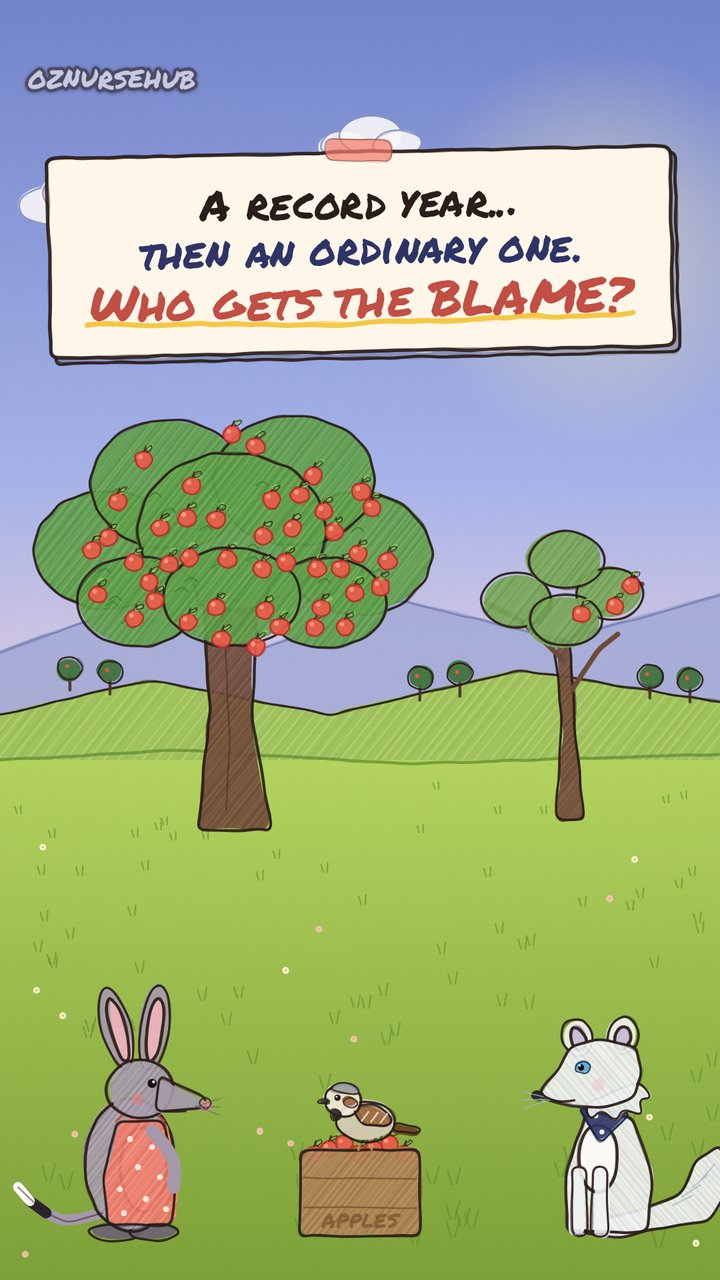
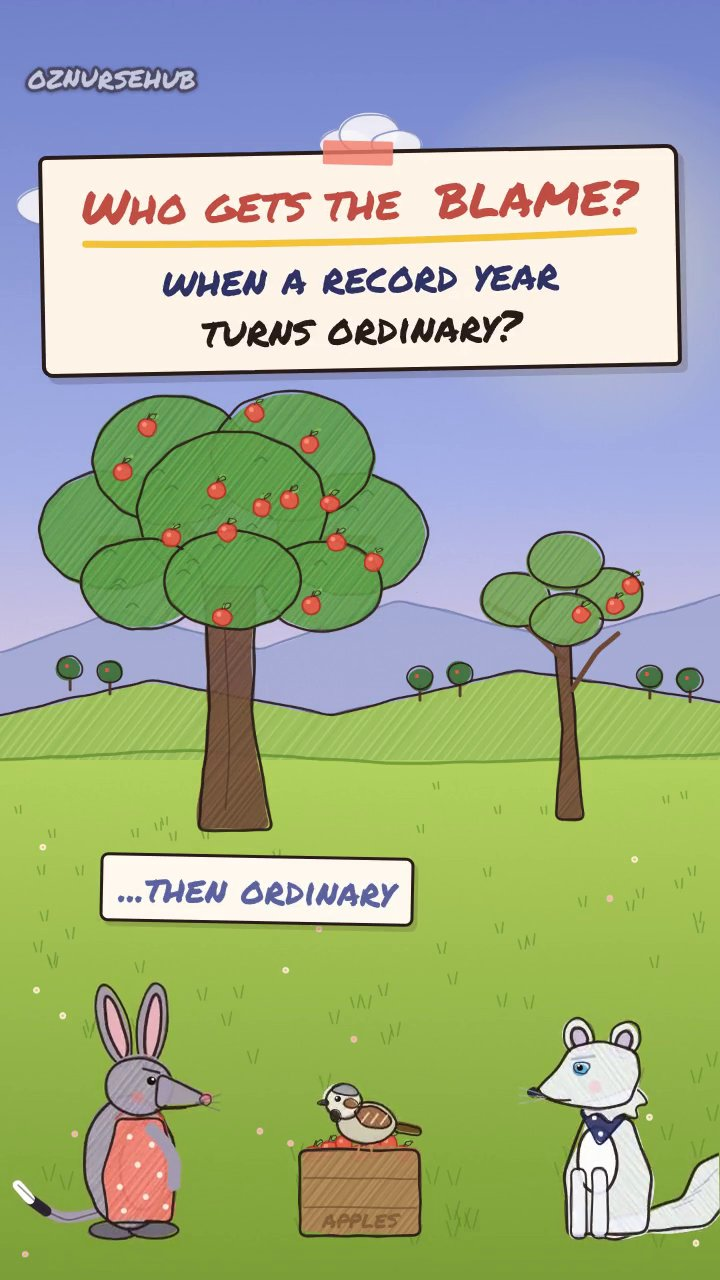
Add story pages for fables 09–11: Weaver, Fox tonic and Orchard
New pages for The Weaver's Four Screens, The Fox's Half-Risk Tonic and The Orchard's Best Year, with library cards, next-story chain, sitemap entries and a cache bump to oznurse-v100-fable-pages. The Orchard poster is replaced with the remade thumbnail.

diff --git a/fable-orchards-best-year.html b/fable-orchards-best-year.html
@@ -1,0 +1,95 @@
+<!doctype html>
+<html lang="en-AU">
+<head>
+<meta charset="utf-8">
+<script src="theme.js"></script>
+<meta name="viewport" content="width=device-width,initial-scale=1">
+<title>The Orchard&rsquo;s Best Year | OzNurseHub</title>
+<meta name="description" content="Watch The Orchard&rsquo;s Best Year, a short fable about regression to the mean: after one extreme result, things usually drift back to ordinary.">
+<link rel="canonical" href="https://oznursehub.com/fable-orchards-best-year.html">
+<!-- Open Graph -->
+<meta property="og:type" content="article">
+<meta property="og:site_name" content="OzNurseHub">
+<meta property="og:locale" content="en_AU">
+<meta property="og:url" content="https://oznursehub.com/fable-orchards-best-year.html">
+<meta property="og:title" content="The Orchard&rsquo;s Best Year | OzNurseHub">
+<meta property="og:description" content="Watch The Orchard&rsquo;s Best Year, a short fable about regression to the mean: after one extreme result, things usually drift back to ordinary.">
+<meta property="og:image" content="https://oznursehub.com/og-image.jpg">
+<meta property="og:image:type" content="image/jpeg">
+<meta property="og:image:width" content="1200">
+<meta property="og:image:height" content="630">
+<meta property="og:image:alt" content="OzNurseHub logo: a heartbeat line running through the letters, beside the OzNurseHub name">
+<!-- Twitter / X card -->
+<meta name="twitter:card" content="summary_large_image">
+<meta name="twitter:title" content="The Orchard&rsquo;s Best Year | OzNurseHub">
+<meta name="twitter:description" content="Watch The Orchard&rsquo;s Best Year, a short fable about regression to the mean: after one extreme result, things usually drift back to ordinary.">
+<meta name="twitter:image" content="https://oznursehub.com/og-image.jpg">
+<meta name="twitter:image:alt" content="OzNurseHub logo: a heartbeat line running through the letters, beside the OzNurseHub name">
+<link rel="icon" href="favicon.ico" sizes="any"><link rel="icon" type="image/png" sizes="32x32" href="favicon-32.png">
+<link rel="manifest" href="manifest.json">
+<link rel="apple-touch-icon" sizes="180x180" href="apple-touch-icon.png">
+<meta name="theme-color" content="#155e53">
+<link rel="preconnect" href="https://fonts.googleapis.com">
+<link rel="preconnect" href="https://fonts.gstatic.com" crossorigin>
+<link rel="stylesheet" href="https://fonts.googleapis.com/css2?family=DM+Sans:wght@400;500;600;700&amp;family=Fraunces:wght@400;500;600&amp;display=swap">
+<link rel="stylesheet" href="renovation.css">
+<link rel="stylesheet" href="scroll-effects.css">
+<link rel="stylesheet" href="site-theme.css">
+<link rel="stylesheet" href="dark-theme.css">
+<link rel="stylesheet" href="site-navigation.css">
+<link rel="stylesheet" href="fable-story.css">
+<script src="site-navigation.js" defer></script>
+<link rel="stylesheet" href="resource-sidebar.css">
+<script src="resource-sidebar.js?v=3" defer></script>
+</head>
+<body class="renovated fable-page">
+<a class="elegant-skip" href="#content">Skip to content</a>
+<header class="elegant-header"><div class="elegant-nav"><a class="elegant-brand" href="index.html"><img class="elegant-brand-mark" src="logo-mark.png" width="34" height="34" alt="">OzNurseHub<small>Learn with purpose.</small></a><button class="elegant-toggle" type="button" aria-expanded="false" aria-controls="elegant-links">Menu</button><nav class="elegant-links" id="elegant-links" aria-label="Main navigation"><a href="index.html">Home</a><a href="resources.html">Resources</a><a href="tools.html">Tools</a><a href="medications.html">Medications</a><a href="downloads.html">Downloads</a><a class="nav-feature" href="learning-lab.html">Learning lab ↗</a></nav></div></header>
+<main id="content" class="renovation-main fable-main">
+<a class="fable-back" href="fables.html">← All fables</a>
+<section id="orchard" aria-labelledby="orchard-title">
+<section class="fable-intro">
+<p class="overline">Fable Story</p>
+<h1 id="orchard-title">The Orchard&rsquo;s Best Year</h1>
+<p>A small story about a record harvest, a golden ribbon, and why one extreme year is usually followed by an ordinary one.</p>
+<div class="fable-meta"><span>Watch · 1 minute</span><span>Read · 2 minutes</span><span>Learning &amp; reflection</span></div>
+</section>
+<div class="fable-layout">
+<figure class="fable-film" aria-labelledby="orchard-film-caption">
+<video controls playsinline preload="none" poster="media/orchards-best-year.jpg" aria-label="The Orchard&rsquo;s Best Year — fable video" aria-describedby="orchard-film-caption">
+<source src="media/orchards-best-year.mp4" type="video/mp4">
+Your browser cannot play this video. <a href="media/orchards-best-year.mp4">Open the video</a> or read the complete story below.
+</video>
+<figcaption id="orchard-film-caption">Watch the fable, with on-screen captions. Read the full story on this page.</figcaption>
+</figure>
+<article class="fable-text" aria-labelledby="orchard-story-title">
+<p class="overline">The full story</p>
+<h2 id="orchard-story-title">Who gets the blame when a record year turns ordinary?</h2>
+<p>In the orchard beyond the crossroads, old trees grew apples every year. Most years were ordinary. But one summer, a single tree called Old Rowan grew more apples than anyone had ever seen. Its branches bent almost to the ground.</p>
+<p>Senna the bilby was delighted. &ldquo;Old Rowan is the best tree in the land!&rdquo; she declared, and she tied a golden ribbon around its trunk.</p>
+<p>The next year, Old Rowan grew a perfectly normal number of apples. Not bad, just ordinary.</p>
+<p>The mocking fox sneered. &ldquo;See? The golden ribbon made it lazy. Praise always spoils things.&rdquo;</p>
+<p>Meanwhile, at the other end of the orchard, a scrawny tree had grown only three apples the year before. Senna had shouted at it and pruned it hard. This year, it grew an ordinary crop too.</p>
+<p>&ldquo;Aha!&rdquo; said the fox. &ldquo;Shouting works and praise doesn&rsquo;t!&rdquo;</p>
+<p>Bayes the sparrow fluttered between the two trees. &ldquo;Did the ribbon or the shouting really change anything?&rdquo; she asked. &ldquo;Or was last year just unusually lucky for one tree and unusually unlucky for the other?&rdquo;</p>
+<p>Senna thought back. Last year, Old Rowan had caught the morning sun after a branch fell from a neighbour, and the rain had been just right. The scrawny tree had been nibbled by caterpillars. Those were rare strokes of luck, good and bad.</p>
+<p>&ldquo;Extreme years are often followed by ordinary ones,&rdquo; said Bayes. &ldquo;Not because of ribbons or shouting, but because luck doesn&rsquo;t usually strike twice in a row.&rdquo;</p>
+<p>Senna untied the golden ribbon and smiled. She would judge her trees by many seasons, not by one.</p>
+<p>After a very good or very bad result, expect things to drift back towards normal, and don&rsquo;t give the credit or blame to whatever you did in between.</p>
+<p>On the ward too: one odd reading? Recheck it, watch the trend, and escalate if you&rsquo;re worried.</p>
+<p>Regression to the mean describes how an unusually high or low measurement is often followed by one closer to the average, simply because chance played a part in the first result. It doesn&rsquo;t mean things are pulled back by a force; it means extreme results usually contain some luck that doesn&rsquo;t repeat. This matters in everyday life and in healthcare. That is why good decisions rely on repeated measurements, and why research uses comparison groups to tell real effects from natural drift.</p>
+
+<aside class="fable-reflection" aria-labelledby="orchard-reflection-title">
+<h3 id="orchard-reflection-title">A moment to reflect</h3>
+<p>After one unusually good or bad result, what else would you look at before giving credit or blame?</p>
+<p>When one reading looks odd, what helps you tell a real change from a one-off — and when would you escalate?</p>
+</aside>
+<p>Fictional, educational content. OzNurseHub is independent and is not endorsed by any health service, university or professional body.</p>
+</article>
+</div>
+</section>
+<nav class="fable-picker" aria-label="More fables"><a href="fables.html">All fables</a><a href="fable-merchants-crossroads.html">Next story: The Merchants of the Crossroads →</a></nav>
+</main>
+<footer class="elegant-footer"><span>OzNurseHub / Learn with purpose.</span><div><a href="resources.html">Resources</a><a href="about.html">About</a><a href="feedback.html">Feedback</a><a href="https://www.tiktok.com/@oznursehub" rel="me noopener" target="_blank">TikTok</a></div></footer>
+<script src="renovation.js"></script><script src="scroll-effects.js"></script><script src="app-shell.js"></script>
+</body></html>

diff --git a/fable-fox-half-risk-tonic.html b/fable-fox-half-risk-tonic.html
@@ -1,0 +1,94 @@
+<!doctype html>
+<html lang="en-AU">
+<head>
+<meta charset="utf-8">
+<script src="theme.js"></script>
+<meta name="viewport" content="width=device-width,initial-scale=1">
+<title>The Fox&rsquo;s Half-Risk Tonic | OzNurseHub</title>
+<meta name="description" content="Watch The Fox&rsquo;s Half-Risk Tonic, a short fable about absolute vs relative risk: when someone says a tonic cuts the risk in half, always ask — half of what?">
+<link rel="canonical" href="https://oznursehub.com/fable-fox-half-risk-tonic.html">
+<!-- Open Graph -->
+<meta property="og:type" content="article">
+<meta property="og:site_name" content="OzNurseHub">
+<meta property="og:locale" content="en_AU">
+<meta property="og:url" content="https://oznursehub.com/fable-fox-half-risk-tonic.html">
+<meta property="og:title" content="The Fox&rsquo;s Half-Risk Tonic | OzNurseHub">
+<meta property="og:description" content="Watch The Fox&rsquo;s Half-Risk Tonic, a short fable about absolute vs relative risk: when someone says a tonic cuts the risk in half, always ask — half of what?">
+<meta property="og:image" content="https://oznursehub.com/og-image.jpg">
+<meta property="og:image:type" content="image/jpeg">
+<meta property="og:image:width" content="1200">
+<meta property="og:image:height" content="630">
+<meta property="og:image:alt" content="OzNurseHub logo: a heartbeat line running through the letters, beside the OzNurseHub name">
+<!-- Twitter / X card -->
+<meta name="twitter:card" content="summary_large_image">
+<meta name="twitter:title" content="The Fox&rsquo;s Half-Risk Tonic | OzNurseHub">
+<meta name="twitter:description" content="Watch The Fox&rsquo;s Half-Risk Tonic, a short fable about absolute vs relative risk: when someone says a tonic cuts the risk in half, always ask — half of what?">
+<meta name="twitter:image" content="https://oznursehub.com/og-image.jpg">
+<meta name="twitter:image:alt" content="OzNurseHub logo: a heartbeat line running through the letters, beside the OzNurseHub name">
+<link rel="icon" href="favicon.ico" sizes="any"><link rel="icon" type="image/png" sizes="32x32" href="favicon-32.png">
+<link rel="manifest" href="manifest.json">
+<link rel="apple-touch-icon" sizes="180x180" href="apple-touch-icon.png">
+<meta name="theme-color" content="#155e53">
+<link rel="preconnect" href="https://fonts.googleapis.com">
+<link rel="preconnect" href="https://fonts.gstatic.com" crossorigin>
+<link rel="stylesheet" href="https://fonts.googleapis.com/css2?family=DM+Sans:wght@400;500;600;700&amp;family=Fraunces:wght@400;500;600&amp;display=swap">
+<link rel="stylesheet" href="renovation.css">
+<link rel="stylesheet" href="scroll-effects.css">
+<link rel="stylesheet" href="site-theme.css">
+<link rel="stylesheet" href="dark-theme.css">
+<link rel="stylesheet" href="site-navigation.css">
+<link rel="stylesheet" href="fable-story.css">
+<script src="site-navigation.js" defer></script>
+<link rel="stylesheet" href="resource-sidebar.css">
+<script src="resource-sidebar.js?v=3" defer></script>
+</head>
+<body class="renovated fable-page">
+<a class="elegant-skip" href="#content">Skip to content</a>
+<header class="elegant-header"><div class="elegant-nav"><a class="elegant-brand" href="index.html"><img class="elegant-brand-mark" src="logo-mark.png" width="34" height="34" alt="">OzNurseHub<small>Learn with purpose.</small></a><button class="elegant-toggle" type="button" aria-expanded="false" aria-controls="elegant-links">Menu</button><nav class="elegant-links" id="elegant-links" aria-label="Main navigation"><a href="index.html">Home</a><a href="resources.html">Resources</a><a href="tools.html">Tools</a><a href="medications.html">Medications</a><a href="downloads.html">Downloads</a><a class="nav-feature" href="learning-lab.html">Learning lab ↗</a></nav></div></header>
+<main id="content" class="renovation-main fable-main">
+<a class="fable-back" href="fables.html">← All fables</a>
+<section id="tonic" aria-labelledby="tonic-title">
+<section class="fable-intro">
+<p class="overline">Fable Story</p>
+<h1 id="tonic-title">The Fox&rsquo;s Half-Risk Tonic</h1>
+<p>A small story about a tonic that promised to cut the risk in half, and why &ldquo;half&rdquo; means little until you ask: half of what?</p>
+<div class="fable-meta"><span>Watch · 1 minute</span><span>Read · 2 minutes</span><span>Learning &amp; reflection</span></div>
+</section>
+<div class="fable-layout">
+<figure class="fable-film" aria-labelledby="tonic-film-caption">
+<video controls playsinline preload="none" poster="media/fox-half-risk-tonic.jpg" aria-label="The Fox&rsquo;s Half-Risk Tonic — fable video" aria-describedby="tonic-film-caption">
+<source src="media/fox-half-risk-tonic.mp4" type="video/mp4">
+Your browser cannot play this video. <a href="media/fox-half-risk-tonic.mp4">Open the video</a> or read the complete story below.
+</video>
+<figcaption id="tonic-film-caption">Watch the fable, with on-screen captions. Read the full story on this page.</figcaption>
+</figure>
+<article class="fable-text" aria-labelledby="tonic-story-title">
+<p class="overline">The full story</p>
+<h2 id="tonic-story-title">Half the risk sounds huge. But half of what?</h2>
+<p>One morning at the lantern market, the mocking fox set up a shiny stall covered in tiny glass bottles. &ldquo;Marsh-Fever Tonic!&rdquo; he cried. &ldquo;Cuts your risk of marsh fever in HALF! Fifty per cent safer!&rdquo;</p>
+<p>A crowd of rabbits, ducks and hedgehogs pushed forward, coins in their paws. Aldric the merchant was about to buy ten bottles.</p>
+<p>Bayes the sparrow landed on the fox&rsquo;s sign. &ldquo;Half of what?&rdquo; she asked.</p>
+<p>The fox&rsquo;s whiskers twitched. &ldquo;Er, half the risk, of course.&rdquo;</p>
+<p>So Bayes flew to the village infirmary, where the badger healer kept careful records. The healer laid out a thousand pebbles on the floor. &ldquo;Out of every thousand creatures in the marsh, about two catch marsh fever each year,&rdquo; she said, placing two red pebbles among the grey ones.</p>
+<p>Then she took one red pebble away. &ldquo;With the fox&rsquo;s tonic, it&rsquo;s about one in a thousand.&rdquo;</p>
+<p>Aldric squinted at the floor. &ldquo;So the tonic does halve the risk. From two pebbles to one.&rdquo;</p>
+<p>&ldquo;Yes,&rdquo; said the healer, &ldquo;but look at the whole floor. Your chance drops from two in a thousand to one in a thousand. That&rsquo;s a difference of just one creature in every thousand. A thousand creatures would need to take the tonic for one of them to be spared.&rdquo;</p>
+<p>Aldric looked at the price tag, then at the sea of grey pebbles. He put away nine of his coins.</p>
+<p>Back at the market, the fox&rsquo;s sign had been changed by a small, determined sparrow. It now read: &ldquo;Two in a thousand down to one in a thousand.&rdquo;</p>
+<p>When someone says &ldquo;half the risk&rdquo;, always ask: half of what?</p>
+<p>Relative risk compares the risk between two groups as a ratio, while absolute risk tells you the actual chance of something happening. A treatment that lowers risk from 2 in 1,000 to 1 in 1,000 gives a 50% relative risk reduction, which sounds huge, but the absolute risk reduction is only 0.1 percentage points, or 1 in 1,000. Another useful number is the &ldquo;number needed to treat&rdquo;: here, about 1,000 people would need the treatment for one person to benefit. Health headlines and advertisements often quote relative risk because it sounds more impressive, so understanding both numbers is an important part of health literacy and informed decision-making.</p>
+
+<aside class="fable-reflection" aria-labelledby="tonic-reflection-title">
+<h3 id="tonic-reflection-title">A moment to reflect</h3>
+<p>The next time a result is described as &ldquo;half the risk&rdquo;, what else will you ask to see?</p>
+<p>If a thousand creatures must take the tonic for one to be spared, how does that change what you would spend?</p>
+</aside>
+<p>Fictional, educational content. OzNurseHub is independent and is not endorsed by any health service, university or professional body.</p>
+</article>
+</div>
+</section>
+<nav class="fable-picker" aria-label="More fables"><a href="fables.html">All fables</a><a href="fable-orchards-best-year.html">Next story: The Orchard&rsquo;s Best Year →</a></nav>
+</main>
+<footer class="elegant-footer"><span>OzNurseHub / Learn with purpose.</span><div><a href="resources.html">Resources</a><a href="about.html">About</a><a href="feedback.html">Feedback</a><a href="https://www.tiktok.com/@oznursehub" rel="me noopener" target="_blank">TikTok</a></div></footer>
+<script src="renovation.js"></script><script src="scroll-effects.js"></script><script src="app-shell.js"></script>
+</body></html>

diff --git a/fable-weaver-four-screens.html b/fable-weaver-four-screens.html
@@ -1,0 +1,92 @@
+<!doctype html>
+<html lang="en-AU">
+<head>
+<meta charset="utf-8">
+<script src="theme.js"></script>
+<meta name="viewport" content="width=device-width,initial-scale=1">
+<title>The Weaver&rsquo;s Four Screens | OzNurseHub</title>
+<meta name="description" content="Watch The Weaver&rsquo;s Four Screens, a short fable about the Swiss cheese model: every safeguard has holes, and harm slips through when those holes line up.">
+<link rel="canonical" href="https://oznursehub.com/fable-weaver-four-screens.html">
+<!-- Open Graph -->
+<meta property="og:type" content="article">
+<meta property="og:site_name" content="OzNurseHub">
+<meta property="og:locale" content="en_AU">
+<meta property="og:url" content="https://oznursehub.com/fable-weaver-four-screens.html">
+<meta property="og:title" content="The Weaver&rsquo;s Four Screens | OzNurseHub">
+<meta property="og:description" content="Watch The Weaver&rsquo;s Four Screens, a short fable about the Swiss cheese model: every safeguard has holes, and harm slips through when those holes line up.">
+<meta property="og:image" content="https://oznursehub.com/og-image.jpg">
+<meta property="og:image:type" content="image/jpeg">
+<meta property="og:image:width" content="1200">
+<meta property="og:image:height" content="630">
+<meta property="og:image:alt" content="OzNurseHub logo: a heartbeat line running through the letters, beside the OzNurseHub name">
+<!-- Twitter / X card -->
+<meta name="twitter:card" content="summary_large_image">
+<meta name="twitter:title" content="The Weaver&rsquo;s Four Screens | OzNurseHub">
+<meta name="twitter:description" content="Watch The Weaver&rsquo;s Four Screens, a short fable about the Swiss cheese model: every safeguard has holes, and harm slips through when those holes line up.">
+<meta name="twitter:image" content="https://oznursehub.com/og-image.jpg">
+<meta name="twitter:image:alt" content="OzNurseHub logo: a heartbeat line running through the letters, beside the OzNurseHub name">
+<link rel="icon" href="favicon.ico" sizes="any"><link rel="icon" type="image/png" sizes="32x32" href="favicon-32.png">
+<link rel="manifest" href="manifest.json">
+<link rel="apple-touch-icon" sizes="180x180" href="apple-touch-icon.png">
+<meta name="theme-color" content="#155e53">
+<link rel="preconnect" href="https://fonts.googleapis.com">
+<link rel="preconnect" href="https://fonts.gstatic.com" crossorigin>
+<link rel="stylesheet" href="https://fonts.googleapis.com/css2?family=DM+Sans:wght@400;500;600;700&amp;family=Fraunces:wght@400;500;600&amp;display=swap">
+<link rel="stylesheet" href="renovation.css">
+<link rel="stylesheet" href="scroll-effects.css">
+<link rel="stylesheet" href="site-theme.css">
+<link rel="stylesheet" href="dark-theme.css">
+<link rel="stylesheet" href="site-navigation.css">
+<link rel="stylesheet" href="fable-story.css">
+<script src="site-navigation.js" defer></script>
+<link rel="stylesheet" href="resource-sidebar.css">
+<script src="resource-sidebar.js?v=3" defer></script>
+</head>
+<body class="renovated fable-page">
+<a class="elegant-skip" href="#content">Skip to content</a>
+<header class="elegant-header"><div class="elegant-nav"><a class="elegant-brand" href="index.html"><img class="elegant-brand-mark" src="logo-mark.png" width="34" height="34" alt="">OzNurseHub<small>Learn with purpose.</small></a><button class="elegant-toggle" type="button" aria-expanded="false" aria-controls="elegant-links">Menu</button><nav class="elegant-links" id="elegant-links" aria-label="Main navigation"><a href="index.html">Home</a><a href="resources.html">Resources</a><a href="tools.html">Tools</a><a href="medications.html">Medications</a><a href="downloads.html">Downloads</a><a class="nav-feature" href="learning-lab.html">Learning lab ↗</a></nav></div></header>
+<main id="content" class="renovation-main fable-main">
+<a class="fable-back" href="fables.html">← All fables</a>
+<section id="weaver" aria-labelledby="weaver-title">
+<section class="fable-intro">
+<p class="overline">Fable Story</p>
+<h1 id="weaver-title">The Weaver&rsquo;s Four Screens</h1>
+<p>A small story about why harm slips through when the holes in several safeguards line up, and why fixing the system matters more than blaming one tired helper.</p>
+<div class="fable-meta"><span>Watch · 1 minute</span><span>Read · 2 minutes</span><span>Learning &amp; reflection</span></div>
+</section>
+<div class="fable-layout">
+<figure class="fable-film" aria-labelledby="weaver-film-caption">
+<video controls playsinline preload="none" poster="media/weaver-four-screens.jpg" aria-label="The Weaver&rsquo;s Four Screens — fable video" aria-describedby="weaver-film-caption">
+<source src="media/weaver-four-screens.mp4" type="video/mp4">
+Your browser cannot play this video. <a href="media/weaver-four-screens.mp4">Open the video</a> or read the complete story below.
+</video>
+<figcaption id="weaver-film-caption">Watch the fable, with on-screen captions. Read the full story on this page.</figcaption>
+</figure>
+<article class="fable-text" aria-labelledby="weaver-story-title">
+<p class="overline">The full story</p>
+<h2 id="weaver-story-title">Harm slips through when the holes line up.</h2>
+<p>At the edge of the marsh stood the village infirmary, where a gentle badger healer mixed medicines for every creature who came limping in. One stormy night, a wise old weaver noticed a jar of sleeping syrup sitting on the shelf meant for cough syrup.</p>
+<p>&ldquo;How did that get there?&rdquo; asked Bayes the sparrow, fluttering onto the bench.</p>
+<p>The weaver hung four woven screens in a row across the doorway. Each one had a few holes. &ldquo;Every good habit is a screen,&rdquo; she said. &ldquo;The label on the jar. The healer reading it twice. The helper checking again. The patient asking, &lsquo;Is this my usual medicine?&rsquo;&rdquo;</p>
+<p>Then she blew a puff of dandelion seeds at the screens. Most seeds caught on the first screen. A few slipped through its holes and stuck on the second. Only when the holes in all four screens lined up did a single seed float right through to the other side.</p>
+<p>&ldquo;Tonight,&rdquo; said the weaver, &ldquo;the labels looked alike, the healer was tired, the helper was busy, and the patient was too sleepy to ask. Four small holes, all in a row.&rdquo;</p>
+<p>The mocking fox sniffed from the window. &ldquo;Just blame the tired badger and be done with it.&rdquo;</p>
+<p>&ldquo;Blaming one screen won&rsquo;t stop the next seed,&rdquo; said the weaver. So the villagers moved the sleeping syrup to a different shelf, gave it a bright red label, and added a quiet corner for double-checks. The holes stopped lining up, and the seeds stayed caught.</p>
+<p>That&rsquo;s the Swiss cheese model. Every safeguard has holes. Harm slips through when the holes line up.</p>
+<p>Mistakes rarely come from one bad moment. Fix the holes in the system, not just the creature who fell through them.</p>
+<p>The Swiss cheese model is a way of thinking about safety used in healthcare, aviation and other high-risk work. Each safeguard, such as clear labels, double-checks, staff training and patients speaking up, is like a slice of Swiss cheese: helpful, but never perfect, because every slice has holes. Harm usually happens only when the holes in several slices line up at the same moment. Rather than simply blaming the last person involved, safety teams look for ways to add extra layers and shrink the holes, so that one slip is caught before it reaches anyone.</p>
+
+<aside class="fable-reflection" aria-labelledby="weaver-reflection-title">
+<h3 id="weaver-reflection-title">A moment to reflect</h3>
+<p>Where might several small holes in your own checks line up, and what would shrink one of them?</p>
+<p>When something goes wrong, do you stop at the last person involved, or look at the system that let the holes line up?</p>
+</aside>
+<p>Fictional, educational content. OzNurseHub is independent and is not endorsed by any health service, university or professional body.</p>
+</article>
+</div>
+</section>
+<nav class="fable-picker" aria-label="More fables"><a href="fables.html">All fables</a><a href="fable-fox-half-risk-tonic.html">Next story: The Fox&rsquo;s Half-Risk Tonic →</a></nav>
+</main>
+<footer class="elegant-footer"><span>OzNurseHub / Learn with purpose.</span><div><a href="resources.html">Resources</a><a href="about.html">About</a><a href="feedback.html">Feedback</a><a href="https://www.tiktok.com/@oznursehub" rel="me noopener" target="_blank">TikTok</a></div></footer>
+<script src="renovation.js"></script><script src="scroll-effects.js"></script><script src="app-shell.js"></script>
+</body></html>

diff --git a/fables.html b/fables.html
@@ -122,7 +122,7 @@
 </div>
 <span class="book-detail">Variational inference <span aria-hidden="true">·</span> 1-minute video</span>
 </a>
-<a class="book-card book-weaver" href="media/weaver-four-screens.mp4" aria-labelledby="cover-weaver-title" aria-describedby="cover-weaver-topic">
+<a class="book-card book-weaver" href="fable-weaver-four-screens.html" aria-labelledby="cover-weaver-title" aria-describedby="cover-weaver-topic">
 <div class="book-cover">
 <div class="cover-art"><img loading="lazy" src="media/weaver-four-screens.jpg" width="720" height="1280" alt="Four woven screens with holes, labelled label, read twice, helper and patient asks, hanging above the weaver spider and a badger helper." decoding="async"></div>
 <div class="cover-type"><span class="cover-volume">FABLE NO. 09</span><h2 id="cover-weaver-title">The Weaver's<br>Four Screens</h2><span class="cover-rule"></span><p id="cover-weaver-topic">Harm slips through<br>when the holes line up.</p></div>
@@ -130,7 +130,7 @@
 </div>
 <span class="book-detail">Swiss cheese model <span aria-hidden="true">·</span> 1-minute video</span>
 </a>
-<a class="book-card book-tonic" href="media/fox-half-risk-tonic.mp4" aria-labelledby="cover-tonic-title" aria-describedby="cover-tonic-topic">
+<a class="book-card book-tonic" href="fable-fox-half-risk-tonic.html" aria-labelledby="cover-tonic-title" aria-describedby="cover-tonic-topic">
 <div class="book-cover">
 <div class="cover-art"><img loading="lazy" src="media/fox-half-risk-tonic.jpg" width="720" height="1280" alt="A fennec fox at a lantern-lit tonic stall, holding up a pink bottle under a sign that says half the risk sounds huge, but half of what, with a beaver and other animals looking on." decoding="async"></div>
 <div class="cover-type"><span class="cover-volume">FABLE NO. 10</span><h2 id="cover-tonic-title">The Fox's<br>Half-Risk Tonic</h2><span class="cover-rule"></span><p id="cover-tonic-topic">Half the risk sounds huge.<br>But half of what?</p></div>
@@ -138,7 +138,7 @@
 </div>
 <span class="book-detail">Absolute vs relative risk <span aria-hidden="true">·</span> 1-minute video</span>
 </a>
-<a class="book-card book-orchard" href="media/orchards-best-year.mp4" aria-labelledby="cover-orchard-title" aria-describedby="cover-orchard-topic">
+<a class="book-card book-orchard" href="fable-orchards-best-year.html" aria-labelledby="cover-orchard-title" aria-describedby="cover-orchard-topic">
 <div class="book-cover">
 <div class="cover-art"><img loading="lazy" src="media/orchards-best-year.jpg" width="720" height="1280" alt="A periwinkle morning orchard with a tree heavy with coral apples and a scrawnier tree beside it, a sign that says a record year then an ordinary one, who gets the blame, and a bilby, a sparrow on a crate of apples, and a white fox on the grass." decoding="async"></div>
 <div class="cover-type"><span class="cover-volume">FABLE NO. 11</span><h2 id="cover-orchard-title">The Orchard's<br>Best Year</h2><span class="cover-rule"></span><p id="cover-orchard-topic">Who gets the blame<br>when a record year turns ordinary?</p></div>
@@ -156,7 +156,7 @@
 <p id="book-hint" class="book-hint">Swipe or scroll sideways to browse. Select a cover to open its story.</p>
 </section>
 <p class="library-note">A quiet moment. A fresh way to think.</p>
-<noscript><p class="book-hint">Browse the covers above, or choose <a href="fable-merchants-crossroads.html">The Merchants of the Crossroads</a>, <a href="fable-fox-and-rook.html">The Fox and the Rook</a>, <a href="fable-mira-marsh-map.html">Mira and the Marsh Map</a>, <a href="fable-mara-two-lanterns.html">Mara and the Two Lanterns</a>, <a href="fable-fox-river-returns.html">The Fox and the River of Returns</a>, <a href="fable-mina-two-seeds.html">Mina and the Two Seeds</a> or <a href="fable-thea-pond-map.html">Thea and the Pond Map</a>, or <a href="fable-pip-storm-jar.html">Pip and the Storm Jar</a>, or watch <a href="media/weaver-four-screens.mp4">The Weaver's Four Screens</a>, or watch <a href="media/fox-half-risk-tonic.mp4">The Fox's Half-Risk Tonic</a>, or watch <a href="media/orchards-best-year.mp4">The Orchard's Best Year</a>.</p></noscript>
+<noscript><p class="book-hint">Browse the covers above, or choose <a href="fable-merchants-crossroads.html">The Merchants of the Crossroads</a>, <a href="fable-fox-and-rook.html">The Fox and the Rook</a>, <a href="fable-mira-marsh-map.html">Mira and the Marsh Map</a>, <a href="fable-mara-two-lanterns.html">Mara and the Two Lanterns</a>, <a href="fable-fox-river-returns.html">The Fox and the River of Returns</a>, <a href="fable-mina-two-seeds.html">Mina and the Two Seeds</a> or <a href="fable-thea-pond-map.html">Thea and the Pond Map</a>, or <a href="fable-pip-storm-jar.html">Pip and the Storm Jar</a>, or <a href="fable-weaver-four-screens.html">The Weaver's Four Screens</a>, or <a href="fable-fox-half-risk-tonic.html">The Fox's Half-Risk Tonic</a>, or <a href="fable-orchards-best-year.html">The Orchard's Best Year</a>.</p></noscript>
 <nav class="related-links" aria-label="Related pages"><span>Related:</span> <a href="learning-lab.html">Medication learning lab</a> · <a href="clinical-tips.html">Clinical tips videos</a></nav>
 </main>
 <footer class="elegant-footer"><span>OzNurseHub / Learn with purpose.</span><div><a href="resources.html">Resources</a><a href="about.html">About</a><a href="feedback.html">Feedback</a><a href="https://www.tiktok.com/@oznursehub" rel="me noopener" target="_blank">TikTok</a></div></footer>

diff --git a/fable-pip-storm-jar.html b/fable-pip-storm-jar.html
@@ -80,7 +80,7 @@ Your browser cannot play this video. <a href="media/pip-storm-jar.mp4">Open the 
 </article>
 </div>
 </section>
-<nav class="fable-picker" aria-label="More fables"><a href="fables.html">All fables</a><a href="fable-merchants-crossroads.html">Next story: The Merchants of the Crossroads →</a></nav>
+<nav class="fable-picker" aria-label="More fables"><a href="fables.html">All fables</a><a href="fable-weaver-four-screens.html">Next story: The Weaver&rsquo;s Four Screens →</a></nav>
 </main>
 <footer class="elegant-footer"><span>OzNurseHub / Learn with purpose.</span><div><a href="resources.html">Resources</a><a href="about.html">About</a><a href="feedback.html">Feedback</a><a href="https://www.tiktok.com/@oznursehub" rel="me noopener" target="_blank">TikTok</a></div></footer>
 <script src="renovation.js"></script><script src="scroll-effects.js"></script><script src="app-shell.js"></script>

diff --git a/sw.js b/sw.js
@@ -1,5 +1,5 @@
 // OzNurseHub — Service Worker
-const CACHE = 'oznurse-v99-orchard';
+const CACHE = 'oznurse-v100-fable-pages';
 
 const CORE_FILES = [
   './shift-sim/',
@@ -55,6 +55,12 @@ const CORE_FILES = [
   './media/thea-pond-map.jpg',
   './fable-pip-storm-jar.html',
   './media/pip-storm-jar.jpg',
+  './fable-weaver-four-screens.html',
+  './media/weaver-four-screens.jpg',
+  './fable-fox-half-risk-tonic.html',
+  './media/fox-half-risk-tonic.jpg',
+  './fable-orchards-best-year.html',
+  './media/orchards-best-year.jpg',
   './app-home.css',
   './app-shell.js',
   './site-theme.css',
